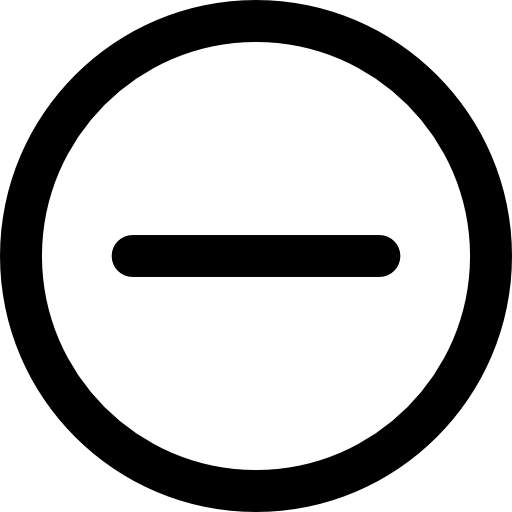
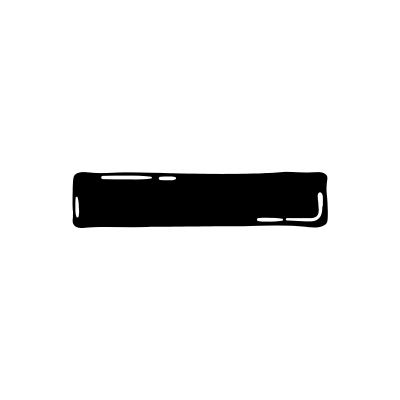
Materials Addition Finishing + Subtraction IMG

Changed region(s): [[0.0, 0.0, 1.0, 1.0], [0.18, 0.42, 0.84, 0.57]]

diff --git a/HTML/Sample_Materials.html b/HTML/Sample_Materials.html
@@ -103,19 +103,34 @@
 
                   <!-- Divider for image -->
                   <div class="img-box">
-                    <img src="../IMG/1.png" alt="1" class="imgstyle"/>
-                    <img src="../IMG/2.png" alt="2" class="imgstyle"/>
-                    <img src="../IMG/3.png" alt="3" class="imgstyle"/>
+                    <img src="../IMG/fingers1.png" alt="1" class="imgstyle"/>
+                    <img src="../IMG/fingers2.png" alt="2" class="imgstyle"/>
+                    <img src="../IMG/fingers3.png" alt="3" class="imgstyle"/>
                   </div>
 
-                  <!-- Divider for text -->
-                  <div class="text-box">
+                  <!-- Divider for text 1 -->
+                  <div class="text-box2">
                     <p>Below are examples of addition shown in the form of images using figure of fingers.</p>
                   </div>
 
-                  <!-- Divider for image -->
+                  <!-- Divider for image 1 -->
                   <div class="img-box2">
-                    <img src="../IMG/2+6.png" alt="2+6" class="imgstyle2"/>
+                    <img src="../IMG/fingers-2+4.png" alt="2+4" class="imgstyle2"/>
+                  </div>
+
+                  <!-- Divider for text 2 -->
+                  <div class="text-box2">
+                    <p>Here's more example to help you understand it better.</p>
+                  </div>
+
+                  <!-- Divider for image 2 -->
+                  <div class="img-box2">
+                    <img src="../IMG/fingers-4+6.png" alt="4+6" class="imgstyle2"/>
+                  </div>
+
+                  <!-- Divider for image 3 -->
+                  <div class="img-box3">
+                    <img src="../IMG/addition-joke.png" alt="addition-joke" class="imgstyle2"/>
                   </div>
 
                 </div>
@@ -124,32 +139,54 @@
           <br>
           <br>
           <br>
-          <br>
-          <br>
-          <br>
-          <br>
-          <br>
-          <br>
-          <br>
-          <br>
-          <br>
-          <br>
-          <br>
-          <br>
-          <br>
-          <br>
-          <br>
-          <br>
-          <br>
-          <br>
-          <br>
-          <br>
-          <br>
+     
           
         <div id="section3">
           <section id="section_bg">
             <h2>Substraction</h2>
           </section>
+
+          <!-- Wrapper for text-box and image-box -->
+          <div class="content-wrapper">
+
+            <!-- Divider for text -->
+            <div class="text-box">
+              <p>Addition in math is a process of combining two or more numbers. Addends are the numbers being added, and the result or the final answer we get after the process is called the sum. It is one of the essential mathematical functions we use in our everyday activities. There are many situations in which we add numbers. Addition in math is a process of combining two or more numbers. Addends are the numbers being added, and the result or the final answer we get after the process is called the sum. It is one of the essential mathematical functions we use in our everyday activities. There are many situations in which we add numbers.</p>
+            </div>
+
+            <!-- Divider for image -->
+            <div class="img-box">
+              <img src="../IMG/monkey1.png" alt="1" class="imgstyle"/>
+              <img src="../IMG/monkey2.png" alt="2" class="imgstyle"/>
+              <img src="../IMG/monkey3.png" alt="3" class="imgstyle"/>
+            </div>
+
+            <!-- Divider for text 1 -->
+            <div class="text-box2">
+              <p></p>
+            </div>
+
+            <!-- Divider for image 1 -->
+            <div class="img-box2">
+              <img src="" alt="2+6" class="imgstyle2"/>
+            </div>
+
+            <!-- Divider for text 2 -->
+            <div class="text-box2">
+              <p></p>
+            </div>
+
+            <!-- Divider for image 2 -->
+            <div class="img-box2">
+              <img src="" alt="2+6" class="imgstyle2"/>
+            </div>
+
+            <!-- Divider for image 3 -->
+            <div class="img-box3">
+              <img src="" alt="addition-joke" class="imgstyle2"/>
+            </div>
+
+          </div>
         </div>
           <br>
           <br>

diff --git a/CSS/Sample_Materials.css b/CSS/Sample_Materials.css
@@ -212,6 +212,8 @@
     justify-content: space-between;
     margin-right: 100px;
     margin-left: 100px;
+    font-family: "Dosis", sans-serif;
+    font-size: 40px;
  }
 
  .imgstyle {
@@ -229,4 +231,23 @@
  .imgstyle2 {
   width: 50%;
   height: 100%;
+}
+
+.text-box2 {
+  display: flex;
+  justify-content: center;
+  margin: 0 100px;
+  text-align: center;
+  padding-top: 50px;
+  font-weight: bold;
+  font-family: monospace;
+  font-size: 20px;
+}
+
+.img-box3 {
+  display: flex;
+  justify-content: center;
+  width: 100%;
+  height: 100%;
+  padding-top: 50px;
 }

diff --git a/HTML/Dashboard.html b/HTML/Dashboard.html
@@ -134,7 +134,7 @@
     <a href="Sample_Materials.html#section3">
       <div class="matwrap">
         <div class="symbol">
-          <img src="../IMG/substract.png" alt="Subtraction" class="imgstyle">
+          <img src="../IMG/subtract.png" alt="Subtraction" class="imgstyle">
           <span class="overlay">Subtraction</span>
         </div>
       </div>
